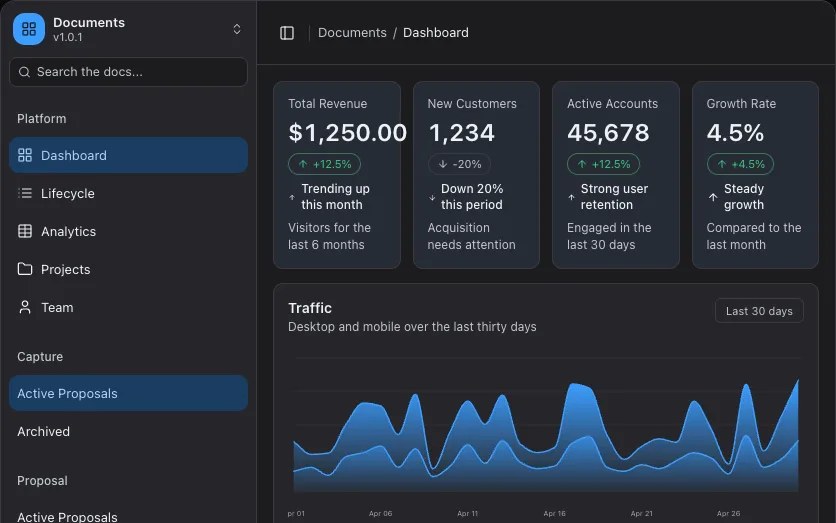
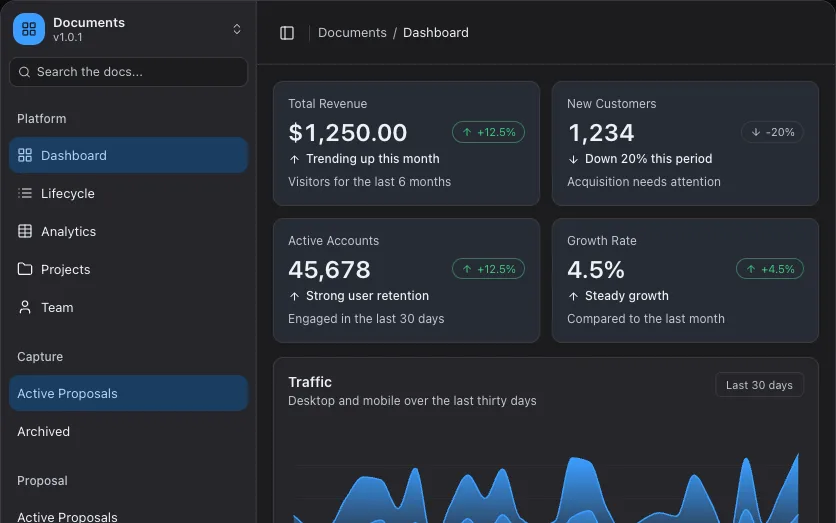
fix(blocks): the block's layout answers its own width
The three small charts painted in one colour, and the whole block laid out
for a 1440px window inside a 500px column.

The treemap put `data-slot` on its `<g>` while the paint read the cell's
own slot, so every cell fell back to the first series colour. The slot is
on the rect now, and a cell's label is the surface's ink over its fill —
legible on all four hues instead of dark grey on lavender.

The responsive rules were viewport media queries, so a reader on a wide
window got a 3-column grid in a block a third that wide. They are
container queries now, which is what `.gx-sb` sets up: two columns of
cards below 900px and one below 520, and the charts stack at a width each
one can be read at. The three are drawn at twice the size they were, so
the stack does not scale their labels up with them.

Changed region(s): [[0.3421, 0.153, 0.9952, 0.6424], [0.3421, 0.7036, 0.9641, 1.0]]

diff --git a/apps/docs/src/components/docs/dashboard-01.tsx b/apps/docs/src/components/docs/dashboard-01.tsx
@@ -512,9 +512,9 @@ function TrafficArea() {
  * so the picture is the proportions rather than a grid.
  */
 function SourceTreemap() {
-  const w = 150;
-  const h = 104;
-  const gap = 2;
+  const w = 300;
+  const h = 208;
+  const gap = 4;
   const sources = [
     { name: "Organic", value: 42 },
     { name: "Direct", value: 26 },
@@ -577,22 +577,23 @@ function SourceTreemap() {
         viewBox={`0 0 ${w} ${h}`}
       >
         {cells.map((cell) => (
-        <g data-slot={cell.slot} key={cell.name}>
+        <g key={cell.name}>
           <rect
             className="gx-dash01-cell"
+            data-slot={cell.slot}
             height={Math.max(0, cell.h)}
             rx="3"
             width={Math.max(0, cell.w)}
             x={cell.x}
             y={cell.y}
           />
-          {cell.w > 54 && cell.h > 30 ? (
-            <text className="gx-dash01-cell-label" x={cell.x + 6} y={cell.y + 14}>
+          {cell.w > 108 && cell.h > 60 ? (
+            <text className="gx-dash01-cell-label" x={cell.x + 12} y={cell.y + 26}>
               {cell.name}
             </text>
           ) : null}
-          {cell.w > 54 && cell.h > 46 ? (
-            <text className="gx-dash01-cell-value" x={cell.x + 6} y={cell.y + 28}>
+          {cell.w > 108 && cell.h > 92 ? (
+            <text className="gx-dash01-cell-value" x={cell.x + 12} y={cell.y + 48}>
               {cell.value}%
             </text>
           ) : null}
@@ -612,11 +613,11 @@ function SourceTreemap() {
  * middle, a thin end.
  */
 function FunnelSankey() {
-  const w = 150;
-  const h = 104;
-  const nodeW = 9;
-  const top = 8;
-  const bottom = h - 20;
+  const w = 300;
+  const h = 208;
+  const nodeW = 18;
+  const top = 16;
+  const bottom = h - 40;
   const span = bottom - top;
   const widest = 100;
   const stages = [
@@ -695,7 +696,7 @@ function FunnelSankey() {
             className="gx-dash01-node-label"
             textAnchor={stage.x === 0 ? "start" : stage.x === w - nodeW ? "end" : "middle"}
             x={stage.x === 0 ? 0 : stage.x === w - nodeW ? w : stage.x + nodeW / 2}
-            y={h - 10}
+            y={h - 22}
           >
             {stage.name}
           </text>
@@ -703,7 +704,7 @@ function FunnelSankey() {
             className="gx-dash01-node-value"
             textAnchor={stage.x === 0 ? "start" : stage.x === w - nodeW ? "end" : "middle"}
             x={stage.x === 0 ? 0 : stage.x === w - nodeW ? w : stage.x + nodeW / 2}
-            y={h - 1}
+            y={h - 4}
           >
             {stage.value}
           </text>
@@ -722,9 +723,9 @@ function FunnelSankey() {
  * from the centre out.
  */
 function DeviceSunburst() {
-  const size = 150;
+  const size = 300;
   const centre = size / 2;
-  const outer = centre - 4;
+  const outer = centre - 8;
   const inner = outer * 0.52;
   const devices = [
     { name: "Desktop", value: 46, slot: 0 },

diff --git a/apps/docs/src/styles/blocks.css b/apps/docs/src/styles/blocks.css
@@ -7740,13 +7740,16 @@ button.gx-sb-row {
   gap: 12px;
 }
 
-@media (width < 1100px) {
+/* The block is a container, so the layout answers **its** width — a reader on
+   a 1440px window sees a 500px block, and a viewport media query handed it the
+   window's columns. */
+@container (width < 900px) {
   .gx-dash01-cards {
     grid-template-columns: repeat(2, minmax(0, 1fr));
   }
 }
 
-@media (width < 640px) {
+@container (width < 520px) {
   .gx-dash01-cards {
     grid-template-columns: minmax(0, 1fr);
   }
@@ -7860,7 +7863,7 @@ button.gx-sb-row {
   gap: 12px;
 }
 
-@media (width < 1100px) {
+@container (width < 900px) {
   .gx-dash01-grid {
     grid-template-columns: minmax(0, 1fr);
   }
@@ -7884,6 +7887,8 @@ button.gx-sb-row {
   display: block;
   flex: 1 1 auto;
   width: 100%;
+  max-width: 340px;
+  margin-inline: auto;
   min-height: 0;
   height: 100%;
 }
@@ -7949,7 +7954,6 @@ button.gx-sb-row {
    scale, so a picture of four parts reads as four parts. */
 .gx-dash01-cell {
   fill: var(--series-1, #a7a9ff);
-  fill-opacity: 0.85;
 }
 
 .gx-dash01-cell[data-slot="2"],
@@ -7967,15 +7971,28 @@ button.gx-sb-row {
   fill: var(--series-4, #ffde8a);
 }
 
+/* A cell's own colour is its fill, so the label has to hold its own against
+   four different hues: the ink is the surface colour, which is what a filled
+   chip's caption uses. */
 .gx-dash01-cell-label {
   font-size: 11px;
-  fill: var(--foreground);
-  font-weight: 600;
+  fill: var(--background);
+  font-weight: 700;
+  paint-order: stroke;
+  stroke: color-mix(in srgb, var(--background) 22%, transparent);
+  stroke-width: 2.5px;
+  stroke-linejoin: round;
 }
 
 .gx-dash01-cell-value {
-  font-size: 9px;
-  fill: color-mix(in srgb, var(--foreground) 70%, transparent);
+  font-size: 9.5px;
+  fill: var(--background);
+  font-weight: 600;
+  opacity: 0.78;
+  paint-order: stroke;
+  stroke: color-mix(in srgb, var(--background) 18%, transparent);
+  stroke-width: 2.5px;
+  stroke-linejoin: round;
 }
 
 .gx-dash01-ribbon {
